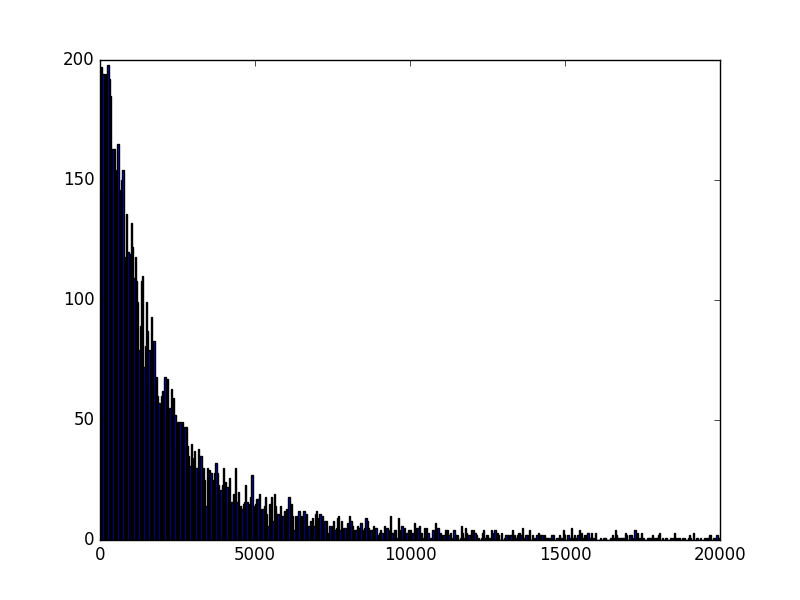
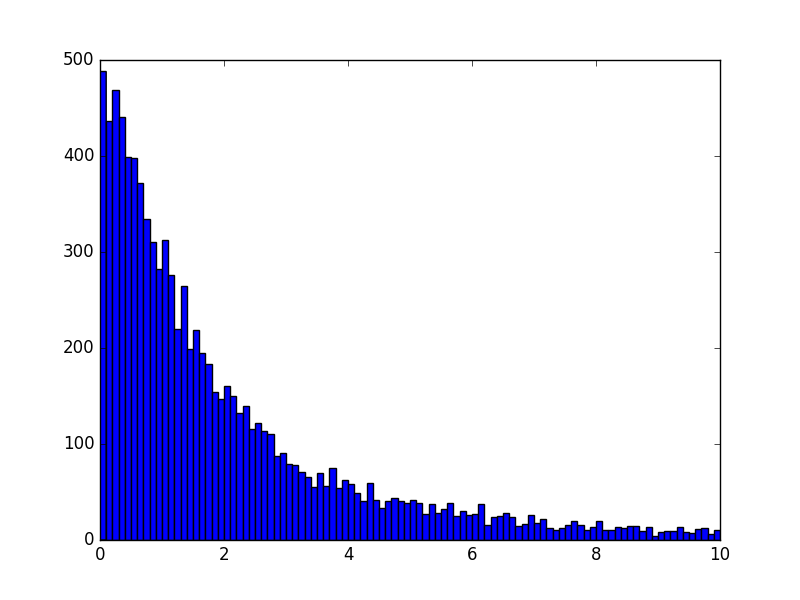
Picosecond units for lifetime

Changed region(s): [[0.0625, 0.09, 0.9375, 0.93]]

diff --git a/Code/Lifetime.py b/Code/Lifetime.py
@@ -178,28 +178,30 @@ pl.close()
 
 
 # decay time dist
-times = [d.decayTime()*1e15 for d in data]
+times = [d.decayTime()*1e12 for d in data]
 
-pl.hist(times, bins=500, range=(0, 20000))
+pl.hist(times, bins=100, range=(0, 10))
 pl.savefig('time-hist.png')
 pl.close()
 
 # decay time curve
-hist, bin_edges = np.histogram(times, bins=500, range=(0, 20000))
+hist, bin_edges = np.histogram(times, bins=500, range=(0, 20))
 num_events = np.sum(hist)
 print(num_events, ' events')
 cum = np.cumsum(hist)
 time = bin_edges[1:]
 
 pl.plot(time, cum, '-b')
+pl.xlabel(r'Decay time / ps')
 pl.savefig('decay.png')
 pl.close()
 
 # decay time fitting
-po, po_cov = spo.curve_fit(lambda t, A, tau: A * (1 - np.exp(-t/tau)), time, cum, [num_events, 1500]) #TODO: error analysis, np.repeat(0.03, l-transition_idx), absolute_sigma=True)
+po, po_cov = spo.curve_fit(lambda t, A, tau: A * (1 - np.exp(-t/tau)), time, cum, [num_events, 1.5]) #TODO: error analysis, np.repeat(0.03, l-transition_idx), absolute_sigma=True)
 
 pl.plot(time, cum, '-b')
 pl.plot(time, np.vectorize(lambda t: po[0] * (1 - np.exp(-t/po[1])))(time), '-r')
+pl.xlabel(r'Decay time / ps')
 pl.savefig('decay-fitted.png')
 pl.close()
 
